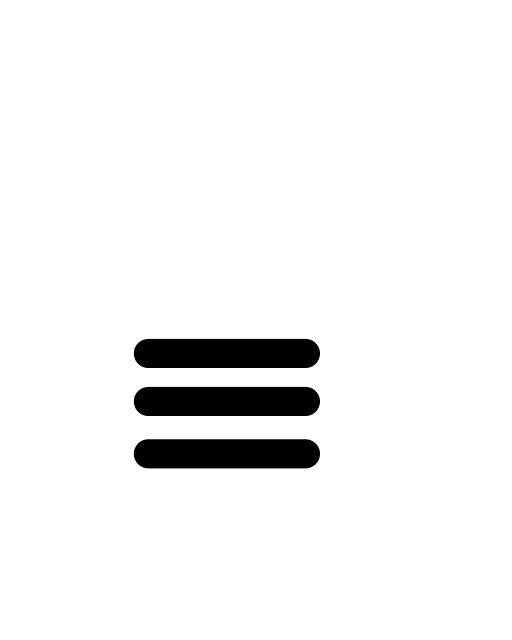
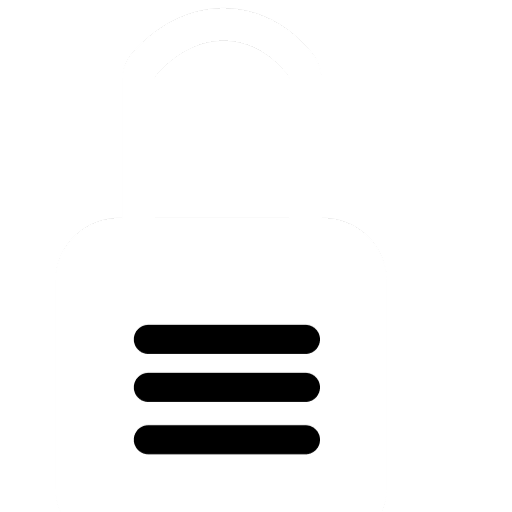
register-ui-comp

Changed region(s): [[0.25, 0.5312, 0.625, 0.9062]]

diff --git a/templates/login.html b/templates/login.html
@@ -10,40 +10,46 @@
 <link href="https://fonts.googleapis.com/css2?family=Jost:ital,wght@0,100..900;1,100..900&family=Noto+Sans:ital,wght@0,100..900;1,100..900&family=Outfit:wght@100..900&family=Playfair+Display:ital,wght@0,400..900;1,400..900&family=Plus+Jakarta+Sans:ital,wght@0,200..800;1,200..800&family=Quicksand:wght@300..700&family=Share+Tech&display=swap" rel="stylesheet">
 </head>
 <body>
+    
     <div class="main">
         <div class="sign-col">
             <div class="sign-box">
                 <div class="titl">Sign Up</div>
-                <form class="form-box" method="POST">
+                <form class="form-box" method="POST" autocomplete="off">
                     <div class="form-group">
-                        <label for="name"></label>
+                        <img class="icons icon-null" >
                         <input type="text" class="inp" id="name" name="name" required placeholder="Enter Full Name">
                     </div>
                     <div class="form-group">
-                        <label for="mail"></label>
+                        <img class="icons" src="{{ url_for('static', filename='src/mail_icon.png') }}" alt="">
                         <input type="text" class="inp" id="mail" name="mail" required placeholder="Enter College Mail">
+                        <div class="otp-box">
+                            <button for="otp" class="otp-btn hov">GET OTP</button>
+                        </div>
                     </div>
-                    <button for="otp" class="otp-btn">GET OTP</button>
                     <div class="form-group">
-                        <input type="text" class="inp" id="otp" name="otp" required placeholder="Enter OTP">
+                        <input type="text" class="inp otp-inp" id="otp" name="otp" required placeholder="Enter OTP">
                     </div>
                     <div class="form-group">
-                        <label for="username"></label>
+                        <img class="icons" src="{{ url_for('static', filename='src/username Icon.png') }}" alt="">
                         <input type="text" class="inp" id="username" name="username" required placeholder="Create Username">
                     </div>
                     <div class="form-group">
-                        <label for="password"></label>
+                        <img class="icons" src="{{ url_for('static', filename='src/lock.png') }}" alt="">
                         <input type="text" class="inp" id="password" name="password" required placeholder="Create Password">
                     </div>
 
                     
                     <div class="sub-box">
-                        <button type="submit" class="login-btn">Sign In</button>
+                        <button type="submit" class="login-btn hov">Sign Up</button>
                     </div>
                 </form>
             </div>
         </div>
-        <div class="side_space"></div>
+        <div class="side-space">
+            <div class="record">RecordBro!</div>
+            <div class="slogan">Stop living for deadlines and start living for yourself-simply upload your requirements and let our experts handle the rest.</div>
+        </div>
     </div>
 </body>
 </html>

diff --git a/static/login.css b/static/login.css
@@ -1,9 +1,25 @@
 body{
-    background-color: rgb(18, 18, 18);
+    
     margin: 0;
     display: flex;
     color: white;
     font-family: "Outfit", sans-serif;
+    background: url("/static/src/record-doodle.png");
+    
+    background-size: 800px;
+    background-repeat: repeat;
+    background-color: rgb(0, 0, 0);
+
+}
+
+.top-bar{
+    position: fixed;
+    top: 0;
+    height: 6vh;
+    width: 100vw;
+    background-color: rgba(0, 0, 0, 0.849);
+    box-shadow:0 0 6px black ;
+    z-index: 100;
 }
 
 .main{
@@ -15,29 +31,57 @@ body{
 
 .sign-col{
     height: 100vh;
-    width: 50vw;
-    background-color: rgb(118, 0, 209);
+    width: 65vw;
+    background-color: rgba(97, 0, 176, 0.929);
     display: flex;
     align-items: center;
-    justify-content: center;
+
+    mask-image: linear-gradient(to right, black 85%, transparent 100%);
+    -webkit-mask-image: linear-gradient(to right, black 85%, transparent 100%);
 }
 
 .sign-box{
+    margin-left: 4vw;
     height: 80%;
-    width: 85%;
-   
+    width: 60%;
     padding: 1vw;
+    background-color: rgba(0, 0, 0, 0.694);
+    border-radius: 10px;
+    
 }
 
 .titl{
     font-size: 5vw;
-    margin-bottom: 5vw;
+    margin-bottom: 2vw;
 }
 
 .form-box{
     display: flex;
     flex-direction: column;
     
+}
+
+.form-group{
+    display: flex;
+    flex-direction: row;
+    
+    align-items: end;
+}
+
+.icons{
+    display: flex;
+    align-items: end;
+    height: 5vh;
+    width: 5vh;
+    
+}
+
+.icon-null{
+    border-radius: 100%;
+    background-color: white;
+    height: 3vh;
+    width: 3vh;
+    margin-right: 2vh;
 }
 
 .otp-btn{
@@ -49,6 +93,7 @@ body{
     border-radius: 20px;
     margin-top: 1vh;
     font-family: "Outfit", sans-serif;
+    margin-left: 2.5vw;
 }
 
 .inp{
@@ -58,7 +103,23 @@ body{
     border-bottom: solid white 2px;
     height: 2vh;
     margin-top: 7vh;
+    color: white;
+    font-family: "Outfit", sans-serif;
+    font-size: 2vh;
+    padding: 1vh;
 
+}
+
+.otp-inp{
+    margin-left: 5vh;
+    border: solid white 2px;
+    padding: 3px;
+    width: 40%;
+    margin-top: 2vh;
+}
+
+input:focus {
+  outline: none;
 }
 
 input::placeholder {
@@ -81,5 +142,40 @@ input::placeholder {
     border: transparent;
     border-radius: 20px;
     font-family: "Outfit", sans-serif;
+
+}
+
+.hov{
+    cursor: pointer;
+    transition: all 0.3s ease;
+}
+
+.hov:hover{
+    transform: translateY(-1px);
+}
+
+
+.side-space{
+    
+    width: 35vw;
+    display: flex;
+    flex-direction: column;
+    justify-content: center;
+}
+
+.record{
+    font-size: 14vh;
+    color: rgba(255, 255, 255, 0.934);
+    text-shadow: 0 0 4px rgb(195, 0, 255);
+    font-weight: 500;
+}
+
+.slogan{
+    color: rgb(202, 138, 255);
+    text-align: center;
+    font-size: 3vh;
+    text-shadow: 0 0 2px rgb(0, 0, 0);
+    background-color: rgba(0, 0, 0, 0.678);
+    font-weight: 200;
 
 }
